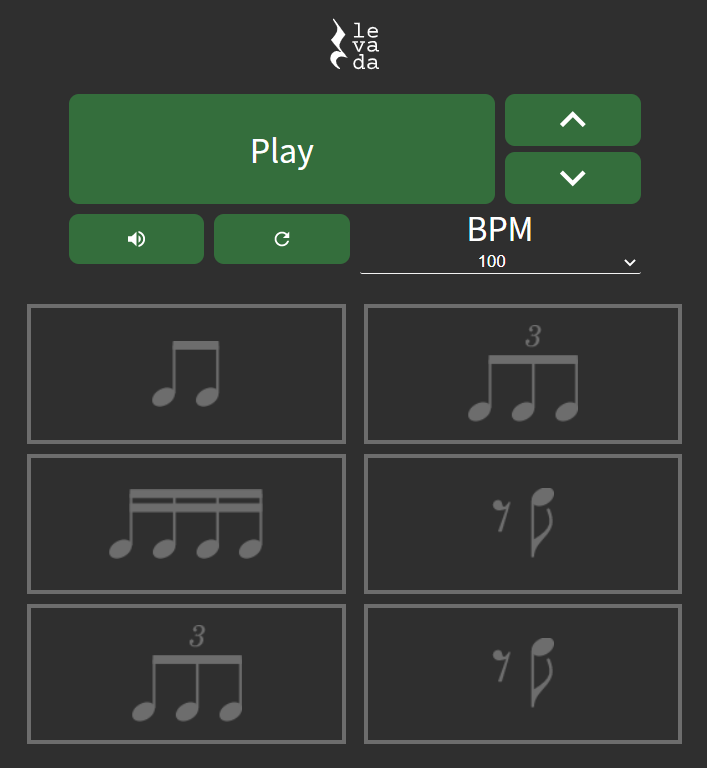
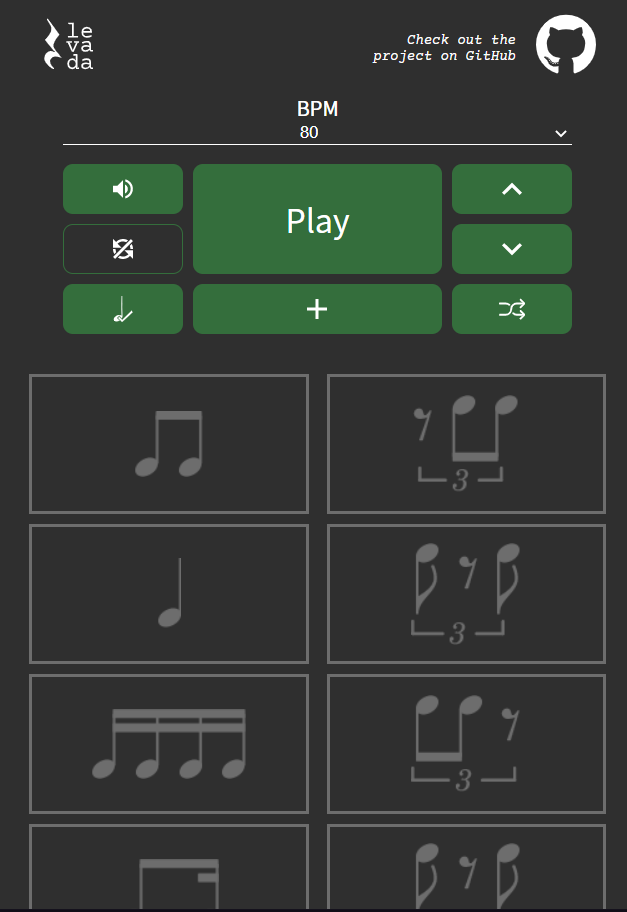
Updated screenshots, README and minor iOS changes

diff --git a/public/index.html b/public/index.html
@@ -3,8 +3,9 @@
   <head>
     <meta charset="utf-8" />
 
-    <meta name="viewport" content="width=device-width, initial-scale=1 user-scalable=0" />
+    <meta name="viewport" content="width=device-width, initial-scale=1, maximum-scale=1, minimum-scale=1, user-scalable=0" />
     <link rel="icon" href="%PUBLIC_URL%/levada-logo-black-no-text.svg">
+    <link rel="apple-touch-icon" sizes="128x128" href="%PUBLIC_URL%/levada-logo-black-no-text.svg">
     <link rel="stylesheet" href="https://fonts.googleapis.com/css2?family=Courier+Prime:ital@0;1&family=Noto+Sans+TC:wght@400;700&family=Recursive:wght@500;900&display=swap"> 
     <title>levada</title>
   </head>

diff --git a/README.md b/README.md
@@ -8,7 +8,9 @@ Sight reading sheet music is a daunting task. Not only do you need to worry abou
 Currently the site is in its barest-bones version possible, but it's enough to start practicing!  
 1. Use the add or remove beats button to specify the desired amount of beats  
 2. Set the BPM to the desired amount  
-3. Click the randomize button until a sequence you're happy with appears  
+3. Select the rhythm you want to practice by either  
+    3.1. Selecting which figures you want to appear by opening the "Select figures" (checked crotchet) pane and adding beats  
+    3.2. Setting a specific rhythm by choosing each figure individually in the "Choose figure" (plus) pane and choosing the desired figures
 4. Click the mute button  
 5. Play the sequence and click anywhere below the button menu whenever you think the note should be played.  
 6. Unmute, play the sequence again and check your progress :)  
@@ -61,7 +63,6 @@ Feedback is ALWAYS appreciated!
 
 # TODO:  
 - Scoring system!!  
-- Select only a subset of rhythmic figures to appear  
 - Remove rhythmic figure to image-generators' make  
 - Better parsing of dotted notes in image-generators/rhythms_data.json  
 - Play multi-beat rhythmic figures (and possibly display them in a different way)  
